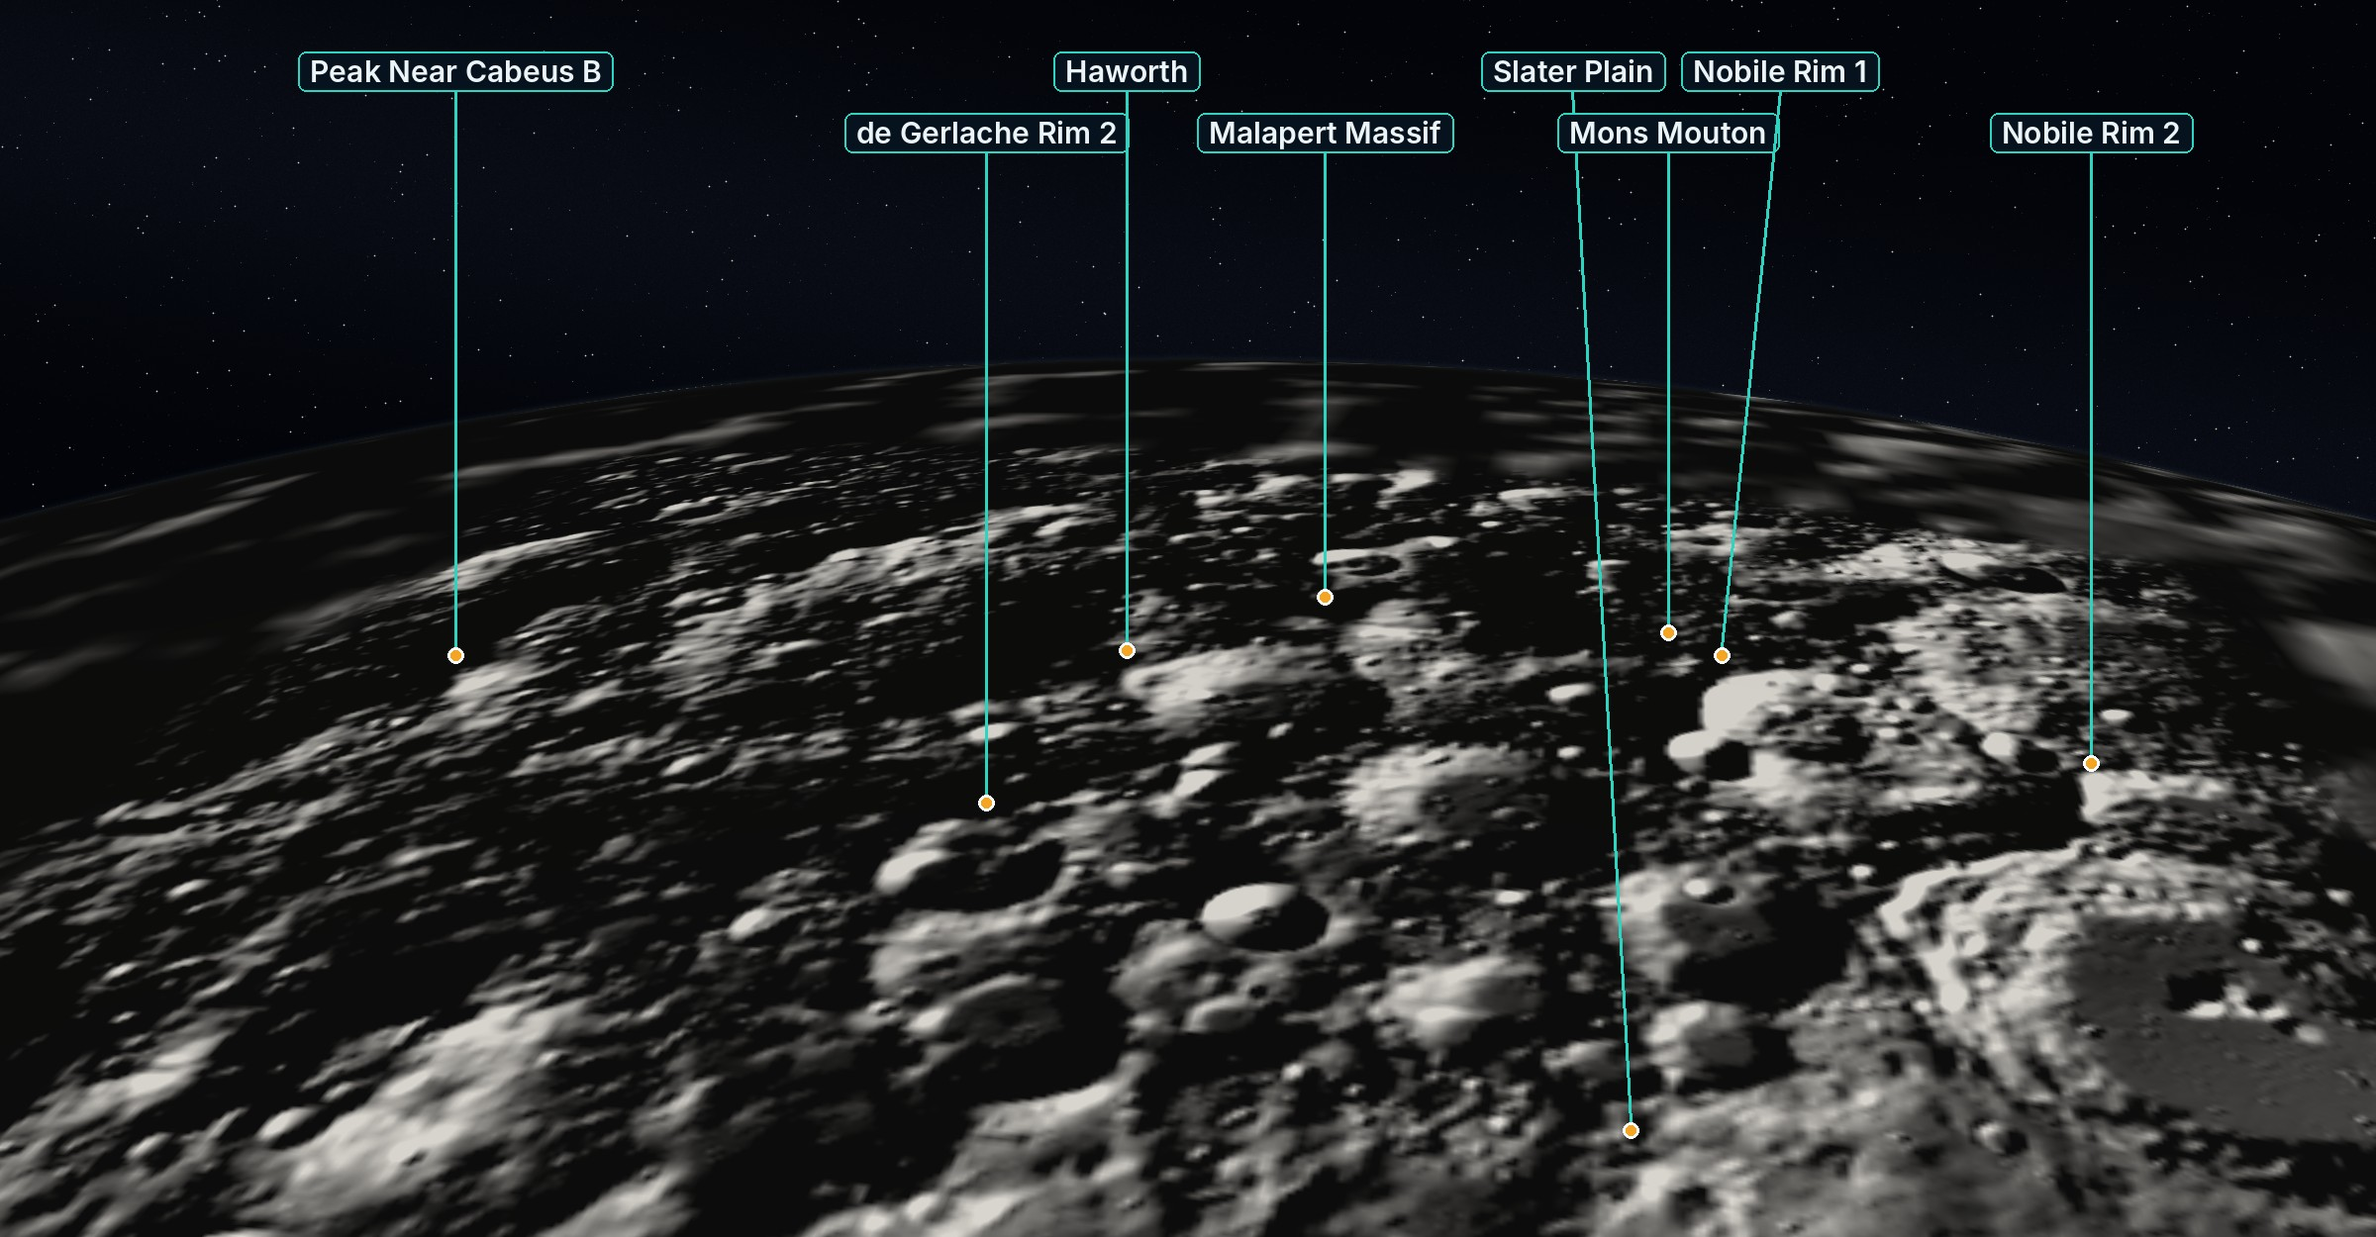
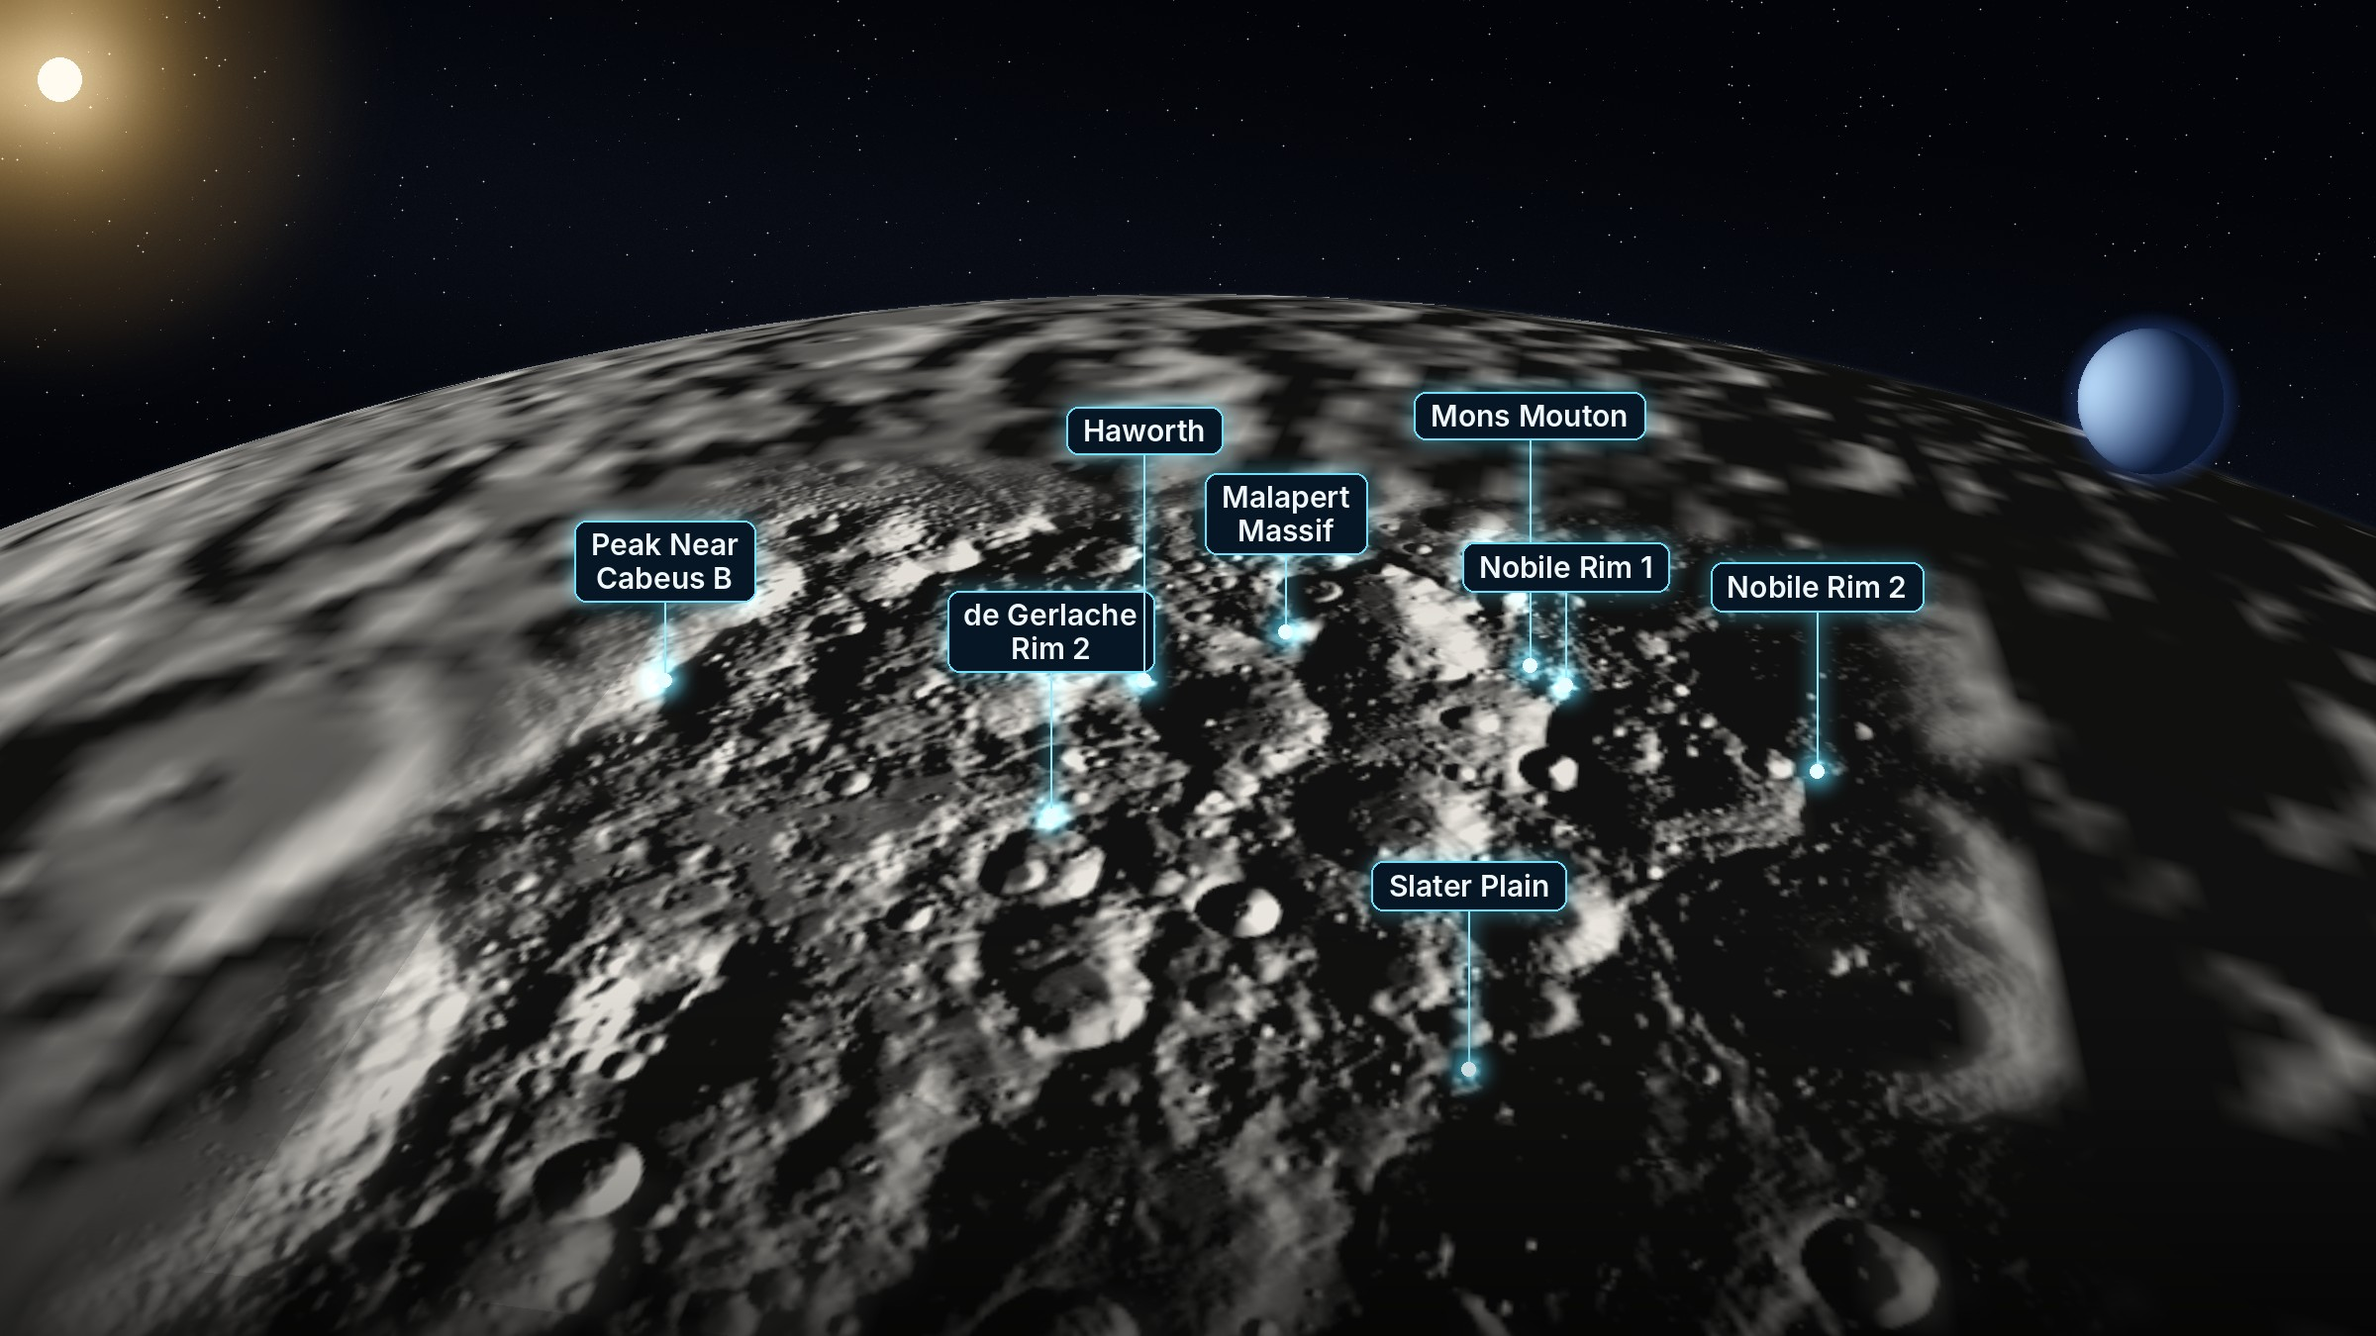
Home: framed title over the orbital LOLA view, glowing site markers, three buttons
Claude-Session: https://claude.ai/code/session_01MGDCYvgrfsbY2Mbahh5wTX

diff --git a/scripts/make_home_moon.py b/scripts/make_home_moon.py
@@ -16,9 +16,9 @@ from PIL import Image, ImageDraw, ImageFilter, ImageFont
 
 ROOT = Path(__file__).resolve().parent.parent
 R = 1737.4                         # km
-W, H = 2400, 1250
+W, H = 2400, 1350
 EXAG = 2.5                         # relief exaggeration used for shading normals
-AIM = 0.07                         # tilts the view up so the horizon and stars show at the top
+AIM = 0.06                         # tilts the view up so the horizon and stars show at the top
 
 
 def font(size, bold=False):
@@ -77,19 +77,21 @@ def main():
     t = np.load(ROOT / "data" / "terrain3d.npz")
     sites = list(csv.DictReader(open(ROOT / "data" / "sites.csv")))
 
-    sun = latlon_xyz(-2.0, 120.0)                                        # low polar Sun, from the frame's right
-    cap_l = shade_grid(t["cap"].astype(float), *(t["cap_ul"] / 1000.0), sun)
-    rx0, ry0, rc = t["region_ul"] / 1000.0
-    reg_l = shade_grid(t["region"].astype(float), rx0, ry0, rc, sun)
 
     # camera in orbit ~330 km up over 76°S on the 180° side, looking toward the site cluster near the pole
     target = latlon_xyz(-88.6, -20.0, R)
-    cam = latlon_xyz(-80.5, 170.0, R + 230.0)
+    cam = latlon_xyz(-79.0, 170.0, R + 380.0)
     fwd = target - cam; fwd /= np.linalg.norm(fwd)
     upr = cam / np.linalg.norm(cam)                                     # local vertical → level horizon
     right = np.cross(fwd, upr); right /= np.linalg.norm(right)
     up = np.cross(right, fwd)
-    tanf = np.tan(np.radians(56.0) / 2)
+    # Sun low over the horizon, upper-left of the frame; terrain is lit from that direction (illustrative)
+    sun = 0.20 * fwd - 0.95 * right + 0.22 * up
+    sun /= np.linalg.norm(sun)
+    tanf = np.tan(np.radians(60.0) / 2)
+    cap_l = shade_grid(t["cap"].astype(float), *(t["cap_ul"] / 1000.0), sun)
+    rx0, ry0, rc = t["region_ul"] / 1000.0
+    reg_l = shade_grid(t["region"].astype(float), rx0, ry0, rc, sun)
     yy, xx = np.mgrid[0:H, 0:W]
     sx = (xx + 0.5 - W / 2) / (W / 2) * tanf
     sy = (H / 2 - yy - 0.5) / (W / 2) * tanf + AIM
@@ -119,10 +121,10 @@ def main():
     lam_reg, ok_reg = sample(reg_l, rx0, ry0, rc)
     n_reg = t["region"].shape[0]
     ex = np.minimum.reduce([(px_ - rx0), (rx0 + n_reg * rc - px_), (ry0 - py_), (py_ - (ry0 - n_reg * rc))])
-    wreg = np.clip(ex / 25.0, 0, 1) * ok_reg
+    wreg = np.clip(ex / 80.0, 0, 1) * ok_reg
     lam = np.where(ok_cap, lam_cap, np.clip((P / R * sun).sum(-1), 0, 1))
     lam = lam * (1 - wreg) + lam_reg * wreg
-    grey = 0.05 + 0.80 * np.clip(lam * np.where(wreg > 0.5, 1.7, 1.3), 0, 1) ** 0.9
+    grey = 0.07 + 0.88 * np.clip(lam * np.where(wreg > 0.5, 1.6, 1.3), 0, 1) ** 0.8
     rgb = grey[..., None] * np.array([1.0, 0.985, 0.955])
     dist = np.linalg.norm(P - cam, axis=-1)
     rgb *= (1.0 - 0.25 * np.clip((dist - 330) / 1400, 0, 1))[..., None]
@@ -133,38 +135,78 @@ def main():
     img += (np.abs(edge - hit) * 0.10)[..., None] * np.array([0.6, 0.8, 1.0])
     out = Image.fromarray((np.clip(img, 0, 1) * 255).astype(np.uint8))
 
-    draw = ImageDraw.Draw(out)
+    def proj(vec):
+        zf = vec @ fwd
+        return (vec @ right) / zf / tanf * (W / 2) + W / 2, H / 2 - ((vec @ up) / zf - AIM) / tanf * (W / 2), zf > 0
+
+    # Sun glow (upper left) and a small Earth near the horizon (upper right) — illustrative
+    glow = Image.new("RGB", (W, H), (0, 0, 0)); gd = ImageDraw.Draw(glow)
+    sx_, sy_, _ = proj(sun * 1e6)
+    sx_, sy_ = float(np.clip(sx_, 60, W * 0.3)), float(np.clip(sy_, 80, H * 0.3))
+    for r_, c_ in ((260, (40, 28, 10)), (140, (110, 80, 30)), (60, (255, 220, 150)), (26, (255, 250, 235))):
+        gd.ellipse([sx_ - r_, sy_ - r_, sx_ + r_, sy_ + r_], fill=c_)
+    glow = glow.filter(ImageFilter.GaussianBlur(38))
+    out = Image.fromarray(np.clip(np.asarray(out, float) + np.asarray(glow, float), 0, 255).astype(np.uint8))
+    ImageDraw.Draw(out).ellipse([sx_ - 22, sy_ - 22, sx_ + 22, sy_ + 22], fill=(255, 251, 240))
+    ex_, ey_, er = W * 0.905, H * 0.30, 74
+    yy2, xx2 = np.mgrid[0:H, 0:W]
+    dd = np.hypot(xx2 - ex_, yy2 - ey_) / er
+    disc_ = dd <= 1
+    zz = np.sqrt(np.clip(1 - dd ** 2, 0, 1))
+    lit = np.clip(((xx2 - ex_) / er) * -0.75 + zz * 0.55 + ((ey_ - yy2) / er) * 0.2, 0, 1)
+    earth = np.stack([0.20 + 0.55 * lit, 0.38 + 0.50 * lit, 0.75 + 0.25 * lit], -1) * (0.25 + 0.75 * lit[..., None])
+    arr = np.asarray(out, float) / 255
+    halo = np.clip(1.25 - dd, 0, 0.25)[..., None] * np.array([0.25, 0.45, 0.9]) * (~disc_)[..., None]
+    arr = np.where(disc_[..., None], earth, arr + halo)
+    out = Image.fromarray((np.clip(arr, 0, 1) * 255).astype(np.uint8))
+
+    # site markers and labels with a soft cyan glow
     pts = []
-    for s in sites:
-        q = latlon_xyz(float(s["lat_deg"]), float(s["lon_deg"]), R + float(s["height_m"]) / 1000.0) - cam
-        zf = q @ fwd
-        u = (q @ right) / zf / tanf * (W / 2) + W / 2
-        v = H / 2 - ((q @ up) / zf - AIM) / tanf * (W / 2)
-        pts.append((u, v, s["name"]))
-    pts.sort(key=lambda p: p[0])
+    for s_ in sites:
+        u, v, okv = proj(latlon_xyz(float(s_["lat_deg"]), float(s_["lon_deg"]), R + float(s_["height_m"]) / 1000.0) - cam)
+        if okv:
+            pts.append((u, v, s_["name"]))
+    pts.sort(key=lambda p_: p_[0])
     f = font(30, bold=True)
-    teal, amber = (45, 212, 191), (245, 165, 36)
-    widths = [draw.textlength(nm, font=f) + 24 for _, _, nm in pts]
-    rows = {0: [], 1: []}
-    for k, p_ in enumerate(pts):
-        rows[k % 2].append(k)
-    lx = {k: pts[k][0] for k in range(len(pts))}
-    for ks in rows.values():                                          # push apart left-to-right, then centre
-        for _ in range(50):
-            for a_, b_ in zip(ks, ks[1:]):
-                gap = lx[b_] - lx[a_] - (widths[a_] + widths[b_]) / 2 - 16
-                if gap < 0:
-                    lx[a_] += gap / 2; lx[b_] -= gap / 2
-        for k in ks:
-            lx[k] = float(np.clip(lx[k], widths[k] / 2 + 20, W - widths[k] / 2 - 20))
+    cyan = (80, 220, 255)
+    draw = ImageDraw.Draw(out)
+
+    def wrap(name):
+        w_ = name.split()
+        return name if len(name) <= 14 or len(w_) == 1 else " ".join(w_[:len(w_) // 2 + (len(w_) == 3)]) + "\n" + \
+            " ".join(w_[len(w_) // 2 + (len(w_) == 3):])
+
+    boxes = []
     for k, (u, v, name) in enumerate(pts):
-        ly = 70 + (k % 2) * 62
-        tw = widths[k] - 24
-        draw.line([(lx[k], ly + 22), (u, v - 9)], fill=teal, width=3)
-        draw.rounded_rectangle([lx[k] - tw / 2 - 12, ly - 18, lx[k] + tw / 2 + 12, ly + 22], radius=8,
-                               fill=(6, 19, 31), outline=teal, width=2)
-        draw.text((lx[k], ly + 2), name, font=f, fill=(235, 244, 247), anchor="mm")
-        draw.ellipse([u - 8, v - 8, u + 8, v + 8], fill=amber, outline=(255, 255, 255), width=3)
+        txt = wrap(name)
+        bb = draw.multiline_textbbox((0, 0), txt, font=f, align="center", spacing=4)
+        bw, bh = bb[2] - bb[0] + 34, bb[3] - bb[1] + 26
+        ly = max(H * 0.27, v - 120 - (k % 3) * 66)
+        boxes.append([u, ly, bw, bh, txt, u, v])
+    for _ in range(60):                                                   # spread boxes horizontally
+        for a_, b_ in zip(boxes, boxes[1:]):
+            gap = (b_[0] - a_[0]) - (a_[2] + b_[2]) / 2 - 18
+            if gap < 0 and abs(a_[1] - b_[1]) < (a_[3] + b_[3]) / 2 + 10:
+                a_[0] += gap / 2; b_[0] -= gap / 2
+    layer = Image.new("RGB", (W, H), (0, 0, 0)); ld = ImageDraw.Draw(layer)
+    for lx, ly, bw, bh, txt, u, v in boxes:
+        lx = float(np.clip(lx, bw / 2 + 20, W - bw / 2 - 20))
+        ld.line([(lx, ly + bh / 2), (u, v)], fill=cyan, width=6)
+        ld.ellipse([u - 16, v - 16, u + 16, v + 16], fill=cyan)
+        ld.rounded_rectangle([lx - bw / 2, ly - bh / 2, lx + bw / 2, ly + bh / 2], radius=12, outline=cyan, width=6)
+    layer = layer.filter(ImageFilter.GaussianBlur(9))
+    out = Image.fromarray(np.clip(np.asarray(out, float) + 0.8 * np.asarray(layer, float), 0, 255).astype(np.uint8))
+    draw = ImageDraw.Draw(out)
+    for lx, ly, bw, bh, txt, u, v in boxes:
+        lx = float(np.clip(lx, bw / 2 + 20, W - bw / 2 - 20))
+        draw.line([(lx, ly + bh / 2), (u, v)], fill=(150, 235, 255), width=2)
+        draw.rounded_rectangle([lx - bw / 2, ly - bh / 2, lx + bw / 2, ly + bh / 2], radius=12,
+                               fill=(6, 22, 36), outline=(110, 225, 255), width=2)
+        draw.multiline_text((lx, ly), txt, font=f, fill=(240, 248, 252), anchor="mm", align="center", spacing=4)
+        draw.ellipse([u - 7, v - 7, u + 7, v + 7], fill=(230, 252, 255))
+    # darken the bottom for the buttons
+    fade = np.clip((np.arange(H) - 0.70 * H) / (0.30 * H), 0, 1) ** 1.5 * 0.65
+    out = Image.fromarray((np.asarray(out, float) * (1 - fade)[:, None, None]).astype(np.uint8))
     out.save(ROOT / "assets" / "home_moon.jpg", quality=90, optimize=True, progressive=True)
     star_field(np.random.default_rng(11), 1920, 1080, 6500).save(ROOT / "assets" / "stars.jpg", quality=85,
                                                                 optimize=True)

diff --git a/views/home.py b/views/home.py
@@ -1,4 +1,4 @@
-"""Home — title, the Moon with the candidate sites, and three ways in."""
+"""Home — title, an orbital view of the south pole with the candidate sites, and three ways in."""
 from __future__ import annotations
 
 import sys
@@ -12,39 +12,48 @@ import ui_common as ui
 
 ui.setup_page()
 ROOT = Path(__file__).resolve().parent.parent
+hero = ui._data_uri(ROOT / "assets" / "home_moon.jpg", "image/jpeg")
+stars = ui._data_uri(ROOT / "assets" / "stars.jpg", "image/jpeg")
 
 st.markdown(f"""<style>
-[data-testid="stAppViewContainer"] {{
-  background: #03070E url("{ui._data_uri(ROOT / "assets" / "stars.jpg", "image/jpeg")}") center / cover fixed;
-}}
-.lln-home-head {{display:flex; align-items:center; justify-content:center; gap:18px; margin:6px 0 4px 0;}}
-.lln-home-head h1 {{font-size:3rem; font-weight:800; color:#F2F8FA; margin:0; padding:0; letter-spacing:0.01em;}}
-.lln-home-tag {{text-align:center; color:#AFC3CE; font-size:1.08rem; margin-bottom:6px;}}
-.lln-hero-img img {{width:100%; display:block;
-   -webkit-mask-image: radial-gradient(ellipse 72% 70% at 50% 48%, #000 62%, transparent 100%);
-   mask-image: radial-gradient(ellipse 72% 70% at 50% 48%, #000 62%, transparent 100%);}}
-[class*="st-key-home_go_"] {{padding:20px 18px !important; text-align:center; border-radius:14px;
-   border:1px solid rgba(45,212,191,0.45); background:rgba(9,27,40,0.82); backdrop-filter: blur(3px);}}
-[class*="st-key-home_go_"]:hover {{border-color:#2DD4BF; background:rgba(14,40,56,0.9);}}
-[class*="st-key-home_go_"] div[data-testid="stPageLink"] a {{justify-content:center; border:none; background:none; width:100%; display:flex;}}
-[class*="st-key-home_go_"] div[data-testid="stPageLink"] p {{font-size:1.35rem; font-weight:700; color:#F2F8FA;}}
-[class*="st-key-home_go_"] div[data-testid="stPageLink"] span[data-testid="stIconMaterial"] {{font-size:1.9rem;}}
+[data-testid="stAppViewContainer"] {{background:#02060C url("{stars}") center / cover fixed;}}
+.lln-h {{position:relative; width:100%; aspect-ratio: 2400 / 1350; border-radius:18px; overflow:hidden;
+   background:url("{hero}") center / cover no-repeat; box-shadow:0 0 0 1px rgba(80,220,255,0.18), 0 20px 60px rgba(0,0,0,0.6);}}
+.lln-h .ttl {{position:absolute; top:3.2%; left:50%; transform:translateX(-50%); width:min(70%, 900px);
+   padding:14px 34px 12px 34px; border-radius:18px; text-align:center;
+   background:linear-gradient(180deg, rgba(8,28,44,0.88), rgba(5,18,30,0.88));
+   border:1.5px solid rgba(80,220,255,0.75); box-shadow:0 0 22px rgba(80,220,255,0.35), inset 0 0 18px rgba(80,220,255,0.10);}}
+.lln-h .ttl .row {{display:flex; align-items:center; justify-content:center; gap:16px;}}
+.lln-h .ttl h1 {{margin:0; padding:0; font-size:clamp(1.5rem, 2.9vw, 2.7rem); font-weight:800; color:#F4FAFC;}}
+.lln-h .ttl .sub {{color:#C9DCE5; font-size:clamp(0.8rem, 1.05vw, 1.02rem); margin-top:4px;}}
+.lln-h .btns {{position:absolute; left:3%; right:3%; bottom:3%; display:flex; gap:3%;}}
+.lln-h .btns a {{flex:1; display:flex; align-items:center; justify-content:space-between; gap:14px; text-decoration:none;
+   padding:clamp(8px, 1.0vw, 15px) clamp(14px, 1.8vw, 28px); border-radius:16px; background:rgba(5,16,28,0.82);
+   color:#F4FAFC !important; font-weight:700; font-size:clamp(0.95rem, 1.45vw, 1.45rem); backdrop-filter:blur(4px);
+   transition:transform .15s ease, box-shadow .15s ease;}}
+.lln-h .btns a:hover {{transform:translateY(-3px);}}
+.lln-h .btns a .ic {{font-size:clamp(1.6rem, 2.4vw, 2.4rem);}}
+.lln-h .btns a .lb {{flex:1; text-align:left;}}
+.lln-h .b1 {{border:1.5px solid #4FA3FF; box-shadow:0 0 20px rgba(79,163,255,0.45);}} .lln-h .b1 .ic, .lln-h .b1 .ar {{color:#4FA3FF;}}
+.lln-h .b2 {{border:1.5px solid #A97BFF; box-shadow:0 0 20px rgba(169,123,255,0.45);}} .lln-h .b2 .ic, .lln-h .b2 .ar {{color:#B58CFF;}}
+.lln-h .b3 {{border:1.5px solid #2DD4BF; box-shadow:0 0 20px rgba(45,212,191,0.45);}} .lln-h .b3 .ic, .lln-h .b3 .ar {{color:#2DD4BF;}}
+.lln-credit {{text-align:right; color:#6F8592; font-size:0.76rem; margin:6px 4px 0 0;}}
 </style>""", unsafe_allow_html=True)
 
-st.markdown(f'<div class="lln-home-head">{ui.mi("rocket_launch", 46, ui.TEAL)}<h1>Lunar Landing Site Navigator</h1></div>'
-            '<div class="lln-home-tag">Where and when to land at the lunar south pole — sunlight for power, '
-            'Earth in view for communication.</div>', unsafe_allow_html=True)
-st.markdown(f'<div class="lln-hero-img"><img alt="The Moon with the Artemis III candidate landing sites" '
-            f'src="{ui._data_uri(ROOT / "assets" / "home_moon.jpg", "image/jpeg")}"></div>', unsafe_allow_html=True)
-st.markdown('<div style="text-align:right;color:#7F95A2;font-size:0.78rem;margin:2px 4px 10px 0">Rendered from NASA LOLA '
-            'terrain (Lunar Reconnaissance Orbiter) · sites: USGS Artemis III regions · illustrative lighting</div>',
-            unsafe_allow_html=True)
-for col, (key, page, label, icon) in zip(st.columns(3, gap="medium"), [
-        ("home_go_dashboard", "views/mission.py", "Mission Dashboard", ":material/space_dashboard:"),
-        ("home_go_dates", "views/date_finder.py", "Best Date Finder", ":material/event_available:"),
-        ("home_go_validation", "views/validation.py", "Data Validation", ":material/verified:")]):
-    with col:
-        with st.container(key=f"{key}"):
-            st.page_link(page, label=label, icon=icon)
+st.markdown(
+    '<div class="lln-h">'
+    f'<div class="ttl"><div class="row">{ui.mi("rocket_launch", 44, "#50DCFF")}<h1>Lunar Landing Site Navigator</h1></div>'
+    '<div class="sub">Where and when to land at the lunar south pole — sunlight for power, Earth in view for '
+    'communication.</div></div>'
+    '<div class="btns">'
+    f'<a class="b1" href="mission" target="_self"><span class="ic">{ui.mi("bar_chart", 40, "#4FA3FF")}</span>'
+    f'<span class="lb">Mission Dashboard</span><span class="ar">{ui.mi("arrow_forward", 28, "#4FA3FF")}</span></a>'
+    f'<a class="b2" href="date_finder" target="_self"><span class="ic">{ui.mi("calendar_month", 40, "#B58CFF")}</span>'
+    f'<span class="lb">Best Date Finder</span><span class="ar">{ui.mi("arrow_forward", 28, "#B58CFF")}</span></a>'
+    f'<a class="b3" href="validation" target="_self"><span class="ic">{ui.mi("settings", 40, "#2DD4BF")}</span>'
+    f'<span class="lb">Data Validation</span><span class="ar">{ui.mi("arrow_forward", 28, "#2DD4BF")}</span></a>'
+    '</div></div>'
+    '<div class="lln-credit">Rendered from NASA LOLA terrain (Lunar Reconnaissance Orbiter) · sites: USGS Artemis III '
+    'regions · Sun and Earth placement illustrative</div>', unsafe_allow_html=True)
 
 ui.footer(link=False)
